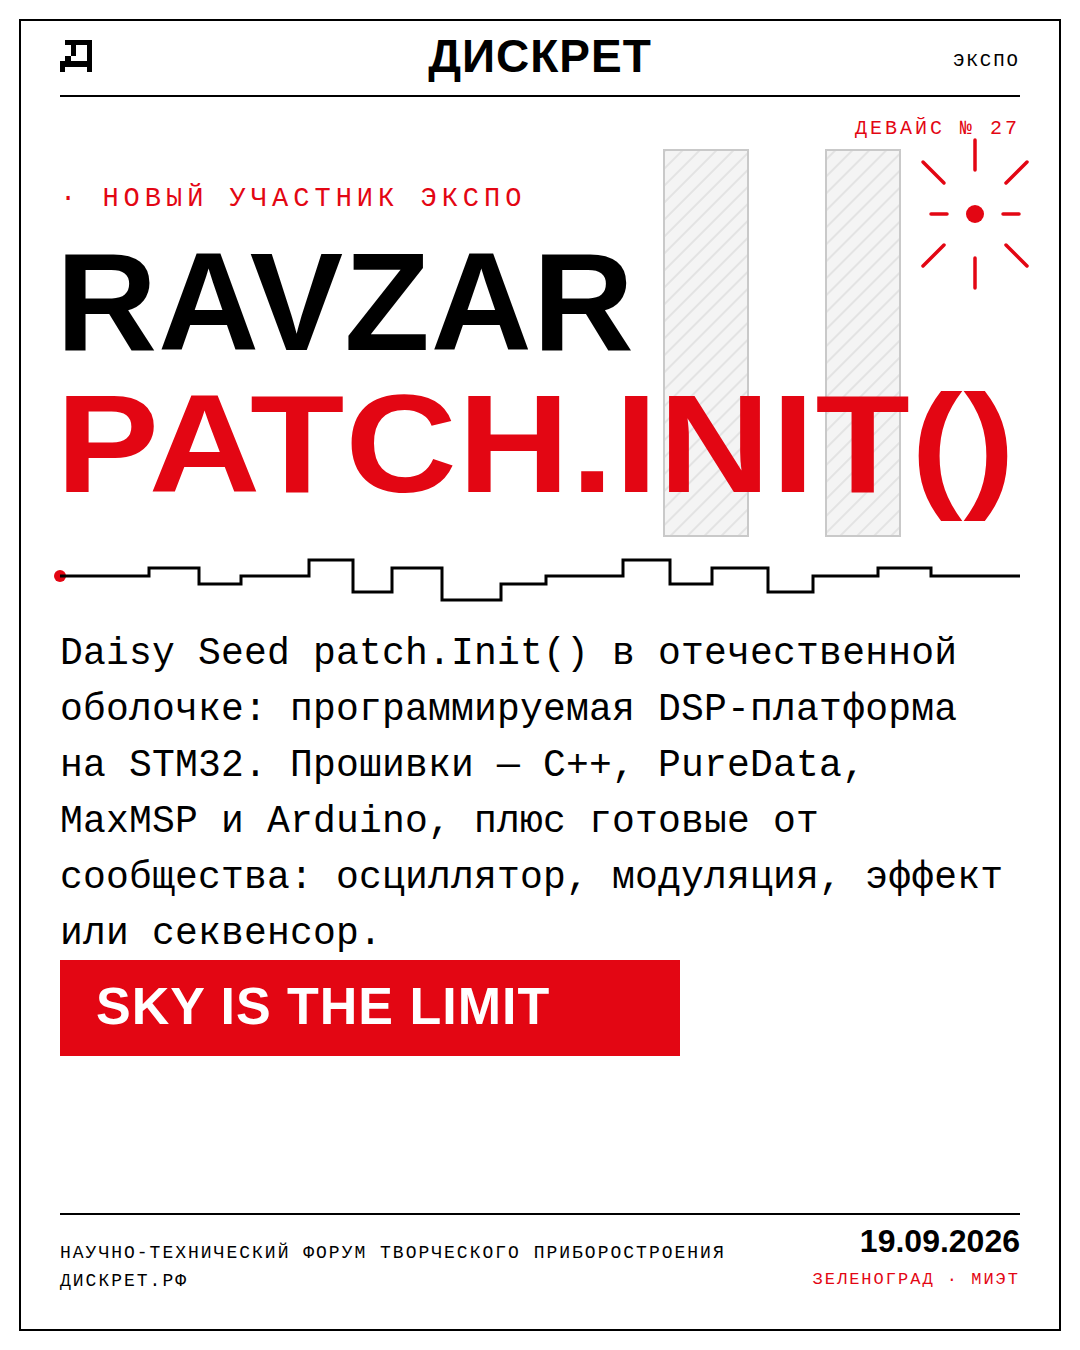
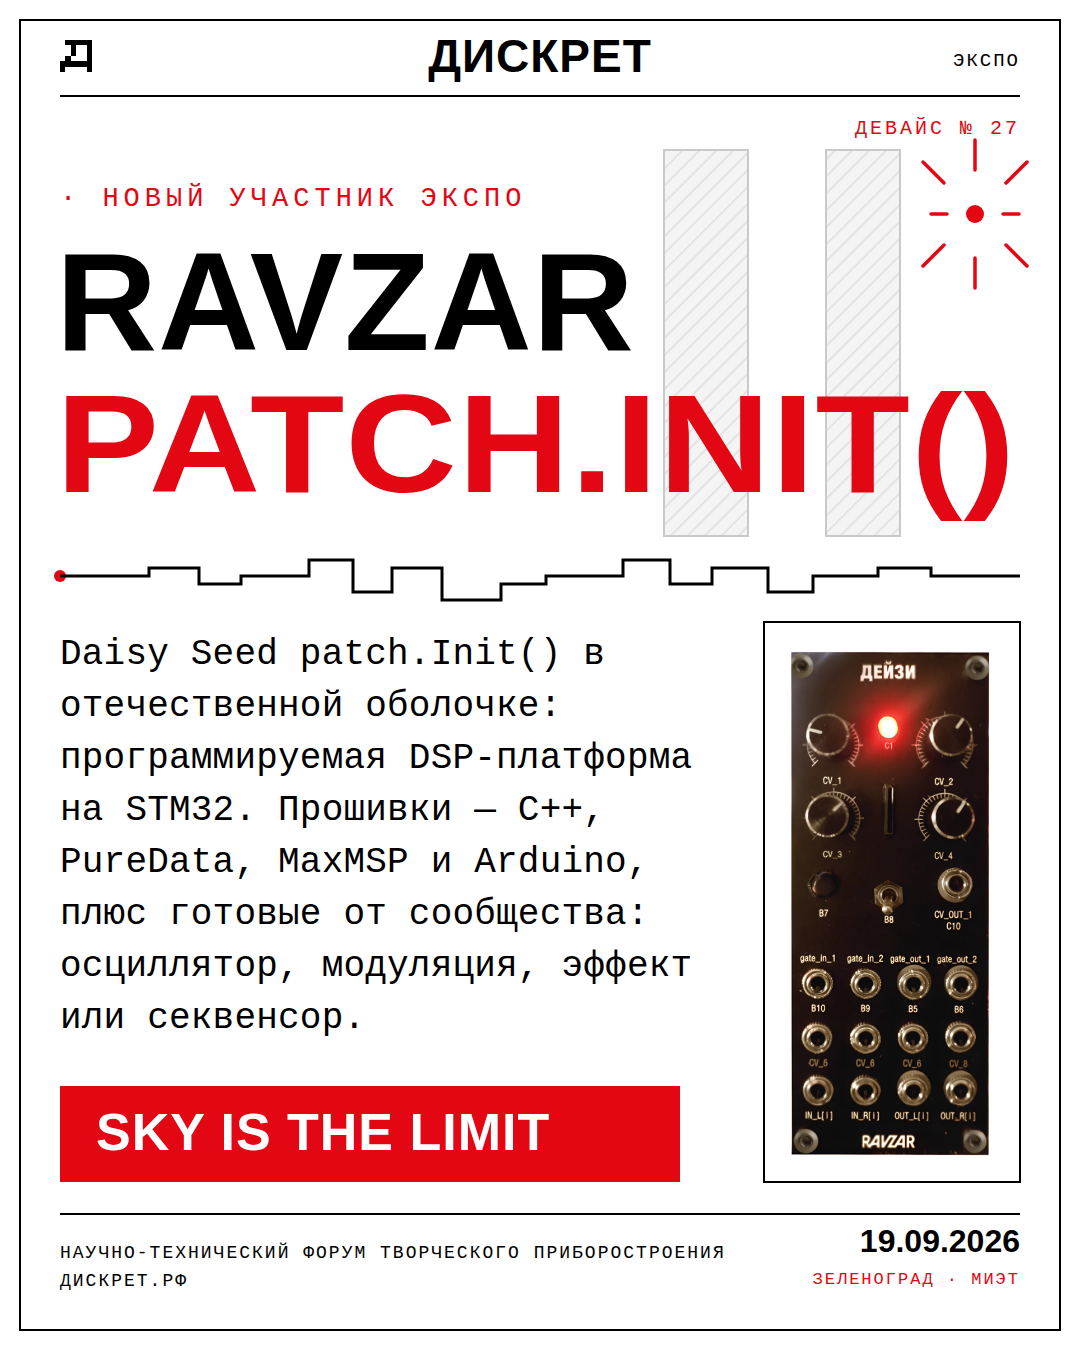
Фото patch.Init() в приложении и фото-версия карточки Ravzar
Claude-Session: https://claude.ai/code/session_01J7cakNvVwscKzgnd8yf78u

Changed region(s): [[0.0306, 0.4667, 0.9472, 0.9022]]

diff --git a/branding/app/index.html b/branding/app/index.html
@@ -378,7 +378,7 @@
 </div>
 
 <script>
-window.PHOTOS = {"ac1":"photos/ac1.jpg","ac2":"photos/ac2.jpg","alphaseq":"photos/alphaseq.jpg","arch1":"photos/arch1.jpg","arch2":"photos/arch2.jpg","astrovox":"photos/astrovox.jpg","bj":"photos/bj.jpg","bj2":"photos/bj2.jpg","bj3":"photos/bj3.jpg","hgx":"photos/hgx.jpg","hgx2":"photos/hgx2.jpg","hruine1":"photos/hruine1.jpg","laser":"photos/laser.jpg","laser1":"photos/laser1.jpg","laser2":"photos/laser2.jpg","lnlogo":"photos/lnlogo.png","lnreal":"photos/lnreal.png","moub1":"photos/moub1.jpg","para":"photos/para.jpg","para2":"photos/para2.jpg","para3":"photos/para3.jpg","shadow1":"photos/shadow1.jpg","shadow2":"photos/shadow2.jpg","spacekir1":"photos/spacekir1.jpg","sx":"photos/sx.jpg","sx2":"photos/sx2.jpg","sxlab":"photos/sxlab.jpg","tamogni1":"photos/tamogni1.jpg","tiihaya1":"photos/tiihaya1.jpg","tiihaya2":"photos/tiihaya2.jpg","tiihaya3":"photos/tiihaya3.jpg","tw":"photos/tw.jpg","tw2":"photos/tw2.jpg","tw3":"photos/tw3.jpg","tw4":"photos/tw4.jpg","vg":"photos/vg.jpg","vg1":"photos/vg1.jpg","vg2":"photos/vg2.jpg","vg3":"photos/vg3.jpg","kaledoscope":"photos/kaledoscope.jpg","unost":"photos/unost.jpg","nb1":"photos/nb1.jpg","nb2":"photos/nb2.jpg","nb3":"photos/nb3.jpg","kr1":"photos/kr1.jpg","kr2":"photos/kr2.jpg","edw1":"photos/edw1.jpg","edw2":"photos/edw2.jpg","edw3":"photos/edw3.jpg","faza1":"photos/faza1.jpg","rez1":"photos/rez1.jpg","rez2":"photos/rez2.jpg","rez3":"photos/rez3.jpg","porky1":"photos/porky1.jpg","moon1":"photos/moon1.jpg","prov1":"photos/prov1.jpg","prov2":"photos/prov2.jpg","sl1":"photos/sl1.jpg","sl2":"photos/sl2.jpg","org_novikov":"photos/org_novikov.jpg","org_grigoriev":"photos/org_grigoriev.jpg","org_slutsky":"photos/org_slutsky.jpg","org_boykov":"photos/org_boykov.jpg","tr1":"photos/tr1.jpg","mayak":"photos/mayak.jpg","pribor1":"photos/pribor1.jpg","lg_picaso":"photos/lg_picaso.svg","lg_soyuz":"photos/lg_soyuz.jpg","lg_baklazhania":"photos/lg_baklazhania.svg","lg_efemi":"photos/lg_efemi.svg","lg_angstrem":"photos/lg_angstrem.svg","lg_ioaudio":"photos/lg_ioaudio.svg","lg_flataudio":"photos/lg_flataudio.svg","lg_infoportal":"photos/lg_infoportal.svg","lg_lasernoto":"photos/lg_lasernoto.svg","lg_skladuma":"photos/lg_skladuma.png","lg_studiomarket":"photos/lg_studiomarket.png","lg_mworld":"photos/lg_mworld.png","lg_djstore":"photos/lg_djstore.png"};
+window.PHOTOS = {"ac1":"photos/ac1.jpg","ac2":"photos/ac2.jpg","alphaseq":"photos/alphaseq.jpg","arch1":"photos/arch1.jpg","arch2":"photos/arch2.jpg","astrovox":"photos/astrovox.jpg","bj":"photos/bj.jpg","bj2":"photos/bj2.jpg","bj3":"photos/bj3.jpg","hgx":"photos/hgx.jpg","hgx2":"photos/hgx2.jpg","hruine1":"photos/hruine1.jpg","laser":"photos/laser.jpg","laser1":"photos/laser1.jpg","laser2":"photos/laser2.jpg","lnlogo":"photos/lnlogo.png","lnreal":"photos/lnreal.png","moub1":"photos/moub1.jpg","para":"photos/para.jpg","para2":"photos/para2.jpg","para3":"photos/para3.jpg","shadow1":"photos/shadow1.jpg","shadow2":"photos/shadow2.jpg","spacekir1":"photos/spacekir1.jpg","sx":"photos/sx.jpg","sx2":"photos/sx2.jpg","sxlab":"photos/sxlab.jpg","tamogni1":"photos/tamogni1.jpg","tiihaya1":"photos/tiihaya1.jpg","tiihaya2":"photos/tiihaya2.jpg","tiihaya3":"photos/tiihaya3.jpg","tw":"photos/tw.jpg","tw2":"photos/tw2.jpg","tw3":"photos/tw3.jpg","tw4":"photos/tw4.jpg","vg":"photos/vg.jpg","vg1":"photos/vg1.jpg","vg2":"photos/vg2.jpg","vg3":"photos/vg3.jpg","kaledoscope":"photos/kaledoscope.jpg","unost":"photos/unost.jpg","nb1":"photos/nb1.jpg","nb2":"photos/nb2.jpg","nb3":"photos/nb3.jpg","kr1":"photos/kr1.jpg","kr2":"photos/kr2.jpg","edw1":"photos/edw1.jpg","edw2":"photos/edw2.jpg","edw3":"photos/edw3.jpg","faza1":"photos/faza1.jpg","rez1":"photos/rez1.jpg","rez2":"photos/rez2.jpg","rez3":"photos/rez3.jpg","porky1":"photos/porky1.jpg","moon1":"photos/moon1.jpg","prov1":"photos/prov1.jpg","prov2":"photos/prov2.jpg","sl1":"photos/sl1.jpg","sl2":"photos/sl2.jpg","org_novikov":"photos/org_novikov.jpg","org_grigoriev":"photos/org_grigoriev.jpg","org_slutsky":"photos/org_slutsky.jpg","org_boykov":"photos/org_boykov.jpg","tr1":"photos/tr1.jpg","mayak":"photos/mayak.jpg","pribor1":"photos/pribor1.jpg","lg_picaso":"photos/lg_picaso.svg","lg_soyuz":"photos/lg_soyuz.jpg","lg_baklazhania":"photos/lg_baklazhania.svg","lg_efemi":"photos/lg_efemi.svg","lg_angstrem":"photos/lg_angstrem.svg","lg_ioaudio":"photos/lg_ioaudio.svg","lg_flataudio":"photos/lg_flataudio.svg","lg_infoportal":"photos/lg_infoportal.svg","lg_lasernoto":"photos/lg_lasernoto.svg","lg_skladuma":"photos/lg_skladuma.png","lg_studiomarket":"photos/lg_studiomarket.png","lg_mworld":"photos/lg_mworld.png","lg_djstore":"photos/lg_djstore.png","ravzar1":"photos/ravzar1.png"};
 // фото лежат отдельными файлами в photos/ и подгружаются лениво
 const ORG = {
   inst: [
@@ -542,7 +542,7 @@ const P = [
     desc:"Archean — open source синтезатор проекта Nakedboards: авторские инструменты с открытыми схемами и образовательными материалами." },
   { id:"ravzar", idx:"27", device:"RAVZAR PATCH.INIT()", name:"", company:"ravzar", sub:"программируемая DSP-платформа", city:"",
     role:"Daisy Seed patch.Init() в отечественной оболочке", spec:"DSP · STM32 · C++ / PureData / MaxMSP / Arduino", stage:"—", time:"—",
-    tags:["DSP","eurorack","open source"], tbd:false, photos:[], links:[],
+    tags:["DSP","eurorack","open source"], tbd:false, photos:["ravzar1"], links:[],
     desc:"Daisy Seed patch.Init() в отечественной оболочке. В основе — программируемый микроконтроллер семейства STM32, позволяющий создавать собственные прошивки на C++, PureData, MaxMSP и Arduino, а также заливать готовые прошивки, созданные сообществом.\n\nВсё это позволяет сделать из patch.Init() осциллятор, источник модуляции, эффект, секвенсор — или что вашей душе угодно. Patch.Init() — sky is the limit!",
     feat:"На борту: стереовход и стереовыход; 4 потенциометра; 4 независимых от потенциометров CV-входа; 2 Gate in и 2 Gate out; 1 CV-выход; тумблер; LED-индикатор." },
 ];
@@ -787,7 +787,7 @@ const C = [
   { id:"radiokruzhok", name:"Спортивно-технический клуб «Путь вперёд»", role:"Аналоговая и цифровая схемотехника · Зеленоград", photos:["kr1","kr2"], members:[{name:"Каменский Олег Геннадиевич"}], links:[],
     desc:"Спортивно-технический клуб «Путь вперёд» занимается проектами в аналоговой и цифровой схемотехнике, обучая детей младших и старших классов основам радиотехники и электроники через интересные проекты.",
     feat:"Аналоговая и цифровая схемотехника; обучение школьников младших и старших классов; освоение радиотехники и электроники через живые проекты." },
-  { id:"ravzar", name:"Ravzar", role:"Программируемые DSP-платформы", photos:[], members:[], links:[{t:"TG",u:"https://t.me/ravzar_corp"}],
+  { id:"ravzar", name:"Ravzar", role:"Программируемые DSP-платформы", photos:["ravzar1"], members:[], links:[{t:"TG",u:"https://t.me/ravzar_corp"}],
     desc:"Ravzar делает Daisy Seed patch.Init() в отечественной оболочке: программируемую DSP-платформу на микроконтроллере STM32. Прошивки — на C++, PureData, MaxMSP и Arduino, плюс готовые прошивки сообщества: осциллятор, источник модуляции, эффект или секвенсор — sky is the limit." },
   { id:"bizarre", name:"Bizarre Jezabel", role:"Бутик модульных синтезаторов · Москва", photos:[], members:["Иван Краснов"],
     links:[{t:"САЙТ",u:"https://bizarrejezabel.com"}],

diff --git a/branding/tools/gen_ravzar_card.js b/branding/tools/gen_ravzar_card.js
@@ -31,10 +31,12 @@ function shLine(){
   return `<circle cx="60" cy="576" r="6" fill="#E30613"/>
 <polyline points="${pts.join(' ')}" fill="none" stroke="#000" stroke-width="3"/>`;
 }
-const body = wrap('Daisy Seed patch.Init() в отечественной оболочке: программируемая DSP-платформа на STM32. Прошивки — C++, PureData, MaxMSP и Arduino, плюс готовые от сообщества: осциллятор, модуляция, эффект или секвенсор.', 41)
-  .map((l,i)=>`<text x="60" y="${664+i*56}" font-family="'Courier New',monospace" font-size="38" letter-spacing="0.2" fill="#000">${esc(l)}</text>`).join('\n');
+// фото модуля: 914×2000 → колонка справа
+const PH = { x:764, y:622, w:256, h:560 };
+const body = wrap('Daisy Seed patch.Init() в отечественной оболочке: программируемая DSP-платформа на STM32. Прошивки — C++, PureData, MaxMSP и Arduino, плюс готовые от сообщества: осциллятор, модуляция, эффект или секвенсор.', 31)
+  .map((l,i)=>`<text x="60" y="${664+i*52}" font-family="'Courier New',monospace" font-size="36" letter-spacing="0.2" fill="#000">${esc(l)}</text>`).join('\n');
 
-const svg = `<svg xmlns="http://www.w3.org/2000/svg" width="1080" height="1350" viewBox="0 0 1080 1350" fill="none" font-family="'Arial Narrow','Helvetica Neue',Arial,sans-serif">
+const svg = `<svg xmlns="http://www.w3.org/2000/svg" xmlns:xlink="http://www.w3.org/1999/xlink" width="1080" height="1350" viewBox="0 0 1080 1350" fill="none" font-family="'Arial Narrow','Helvetica Neue',Arial,sans-serif">
 <defs>
   <g id="logoD" shape-rendering="crispEdges" transform="scale(0.66667)">
     <rect x="10" y="0" width="2" height="12"/><rect x="2" y="0" width="8" height="2"/><rect x="4" y="2" width="2" height="4"/>
@@ -67,9 +69,11 @@ const svg = `<svg xmlns="http://www.w3.org/2000/svg" width="1080" height="1350" 
 ${headText('RAVZAR', 350, '#000')}
 ${headText('PATCH.INIT()', 492, '#E30613')}
 ${shLine()}
+<image x="${PH.x}" y="${PH.y}" width="${PH.w}" height="${PH.h}" href="../../app/photos/ravzar1.png" preserveAspectRatio="xMidYMid meet"/>
+<rect x="${PH.x}" y="${PH.y}" width="${PH.w}" height="${PH.h}" fill="none" stroke="#000" stroke-width="2"/>
 ${body}
-<rect x="60" y="960" width="620" height="96" fill="#E30613"/>
-<text x="96" y="1024" font-weight="800" font-size="52" letter-spacing="1" fill="#FFF">SKY IS THE LIMIT</text>
+<rect x="60" y="1086" width="620" height="96" fill="#E30613"/>
+<text x="96" y="1150" font-weight="800" font-size="52" letter-spacing="1" fill="#FFF">SKY IS THE LIMIT</text>
 <line x1="60" y1="1214" x2="1020" y2="1214" stroke="#000" stroke-width="2"/>
 <text x="60" y="1258" font-family="'Courier New',monospace" font-size="18" letter-spacing="2" fill="#000">НАУЧНО-ТЕХНИЧЕСКИЙ ФОРУМ ТВОРЧЕСКОГО ПРИБОРОСТРОЕНИЯ</text>
 <text x="60" y="1286" font-family="'Courier New',monospace" font-size="18" letter-spacing="2" fill="#000">ДИСКРЕТ.РФ</text>
